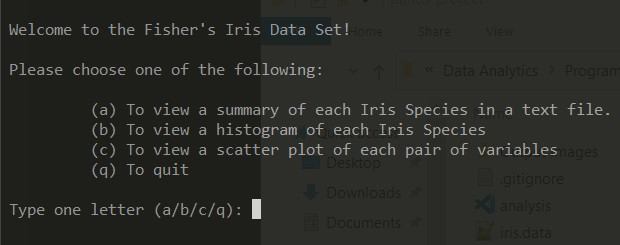
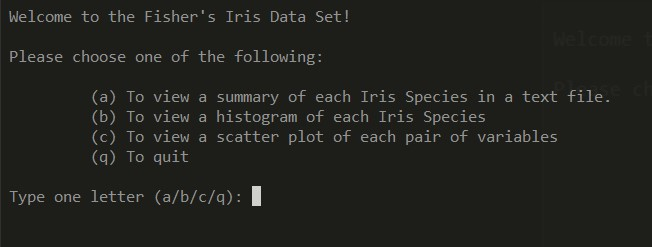
updated pictures in readme

diff --git a/README.md b/README.md
@@ -13,8 +13,8 @@ This document contains the Project 2020 for Programming and Scripting Module at 
 ## Table of Contents
 
 * [Fisher's Iris Data Set](https://github.com/olgarozhdestvina/pands-project/blob/master#fisher's-iris-data-set)
-			* [About the Data Set](https://github.com/olgarozhdestvina/pands-project/blob/master#about-the-data-set)
-			* [Use of the Set](https://github.com/olgarozhdestvina/pands-project/blob/master#use-of-the-set)
+* [About the Data Set](https://github.com/olgarozhdestvina/pands-project/blob/master#about-the-data-set)
+* [Use of the Set](https://github.com/olgarozhdestvina/pands-project/blob/master#use-of-the-set)
 * [Set up](https://github.com/olgarozhdestvina/pands-project/blob/master#set-up)
 * [How to run the code](https://github.com/olgarozhdestvina/pands-project/blob/master#how-to-run-the-code)
 * [Analysing the Set](https://github.com/olgarozhdestvina/pands-project/blob/master#analysing-the-set)
@@ -34,7 +34,7 @@ This document contains the Project 2020 for Programming and Scripting Module at 
 
 ·   Iris virginica. 
 
- ![](https://raw.githubusercontent.com/olgarozhdestvina/pands-project/master/Output%20Images/iris-species.jpg)
+  ![](https://raw.githubusercontent.com/olgarozhdestvina/pands-project/master/Used%20Images/iris-species.jpg)
 
  The data set presents 150 samples of flowers (50 for each plant), featuring four attributes (data **features**):
 
@@ -87,7 +87,7 @@ The purpose of the program analysis.py is to complete three tasks on anasysing t
 
 The program has a multiple choice menu which allows selecting between viewing the text file with a summary, viewing the histogram or viewing the scatter plot. 
 
- ![](https://raw.githubusercontent.com/olgarozhdestvina/pands-project/master/Output%20Images/menu.jpg)
+ ![](https://raw.githubusercontent.com/olgarozhdestvina/pands-project/master/Used%20Images/menu.jpg)
 
 Please note that all three files will be automatically saved to your PC.
 
